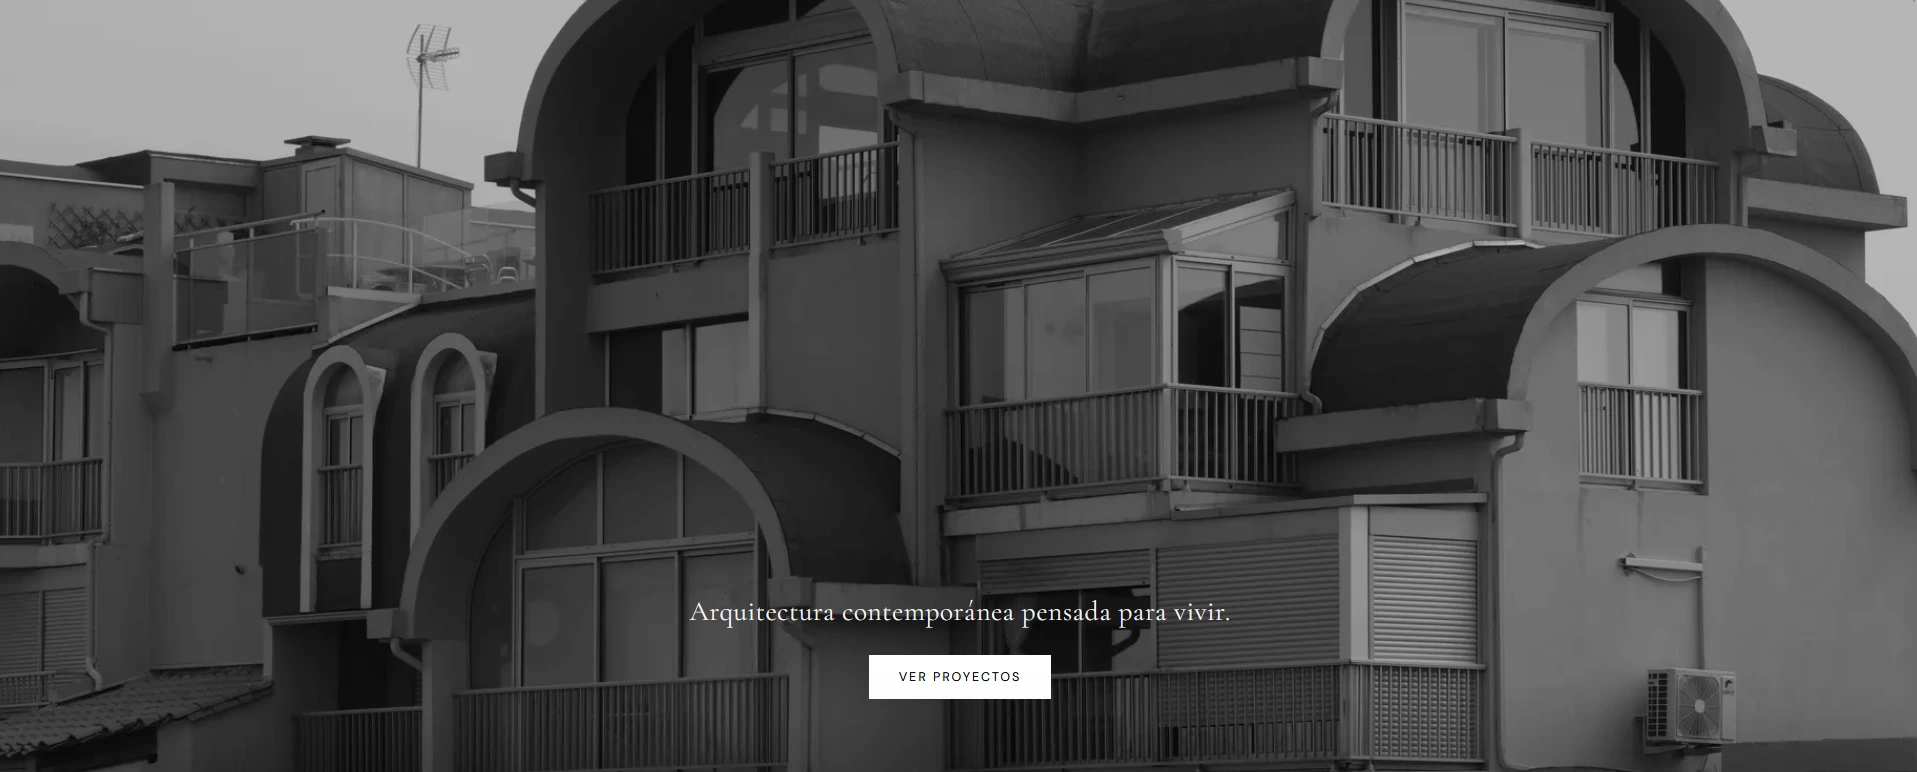
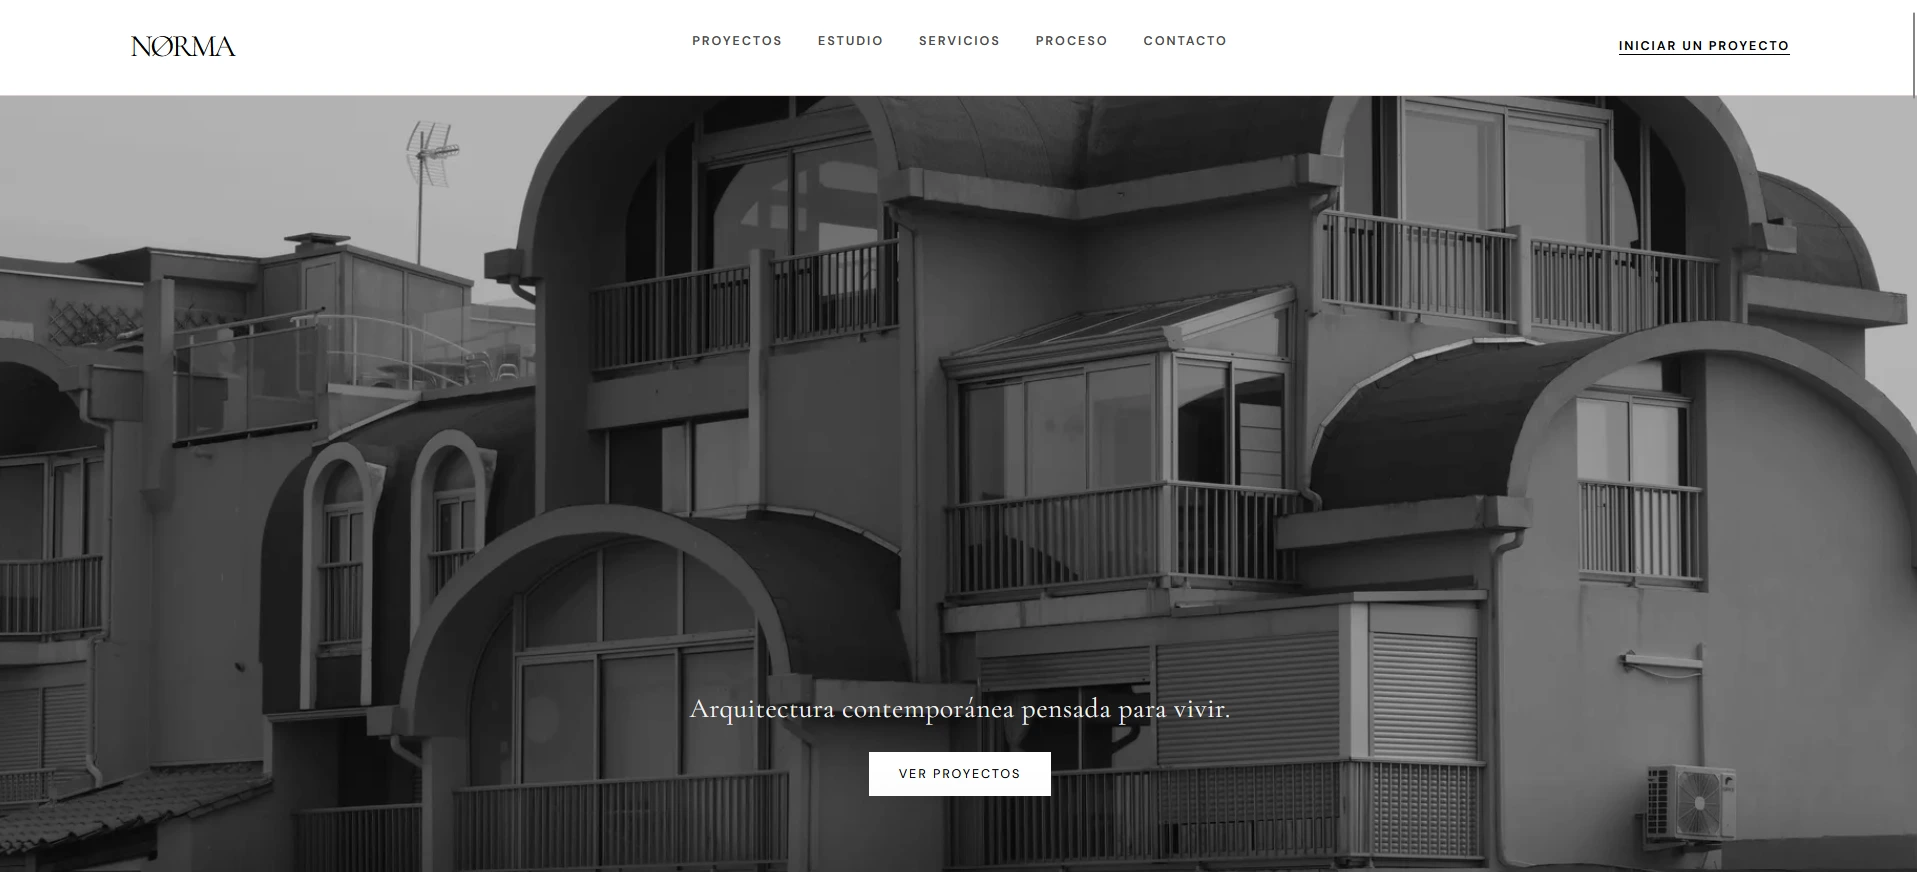
.

diff --git a/components/sections/portfolio.tsx b/components/sections/portfolio.tsx
@@ -57,7 +57,7 @@ function ProjectCard({ project, index = 0 }: { project: Project; index?: number 
       whileInView={{ opacity: 1, y: 0 }}
       transition={{ duration: 0.8, ease: [0.16, 1, 0.3, 1] }}
       viewport={{ once: true, margin: "-100px" }}
-      className="group flex flex-col gap-8 w-full"
+      className="group flex flex-col gap-8 w-full rounded-[2.5rem] bg-white/10 border border-white/20 p-6 sm:p-8 lg:p-10 transition-colors hover:bg-white/15 hover:border-white/30"
     >
       {/* IMAGE CONTAINER */}
       <a
@@ -66,7 +66,7 @@ function ProjectCard({ project, index = 0 }: { project: Project; index?: number 
         rel="noopener noreferrer"
         className="relative block w-full overflow-hidden rounded-3xl bg-white/[0.02] cursor-pointer"
       >
-        <div className="relative aspect-[16/10] sm:aspect-[16/8] w-full overflow-hidden">
+        <div className="relative aspect-video w-full overflow-hidden">
           <Image
             src={project.image}
             alt={`Proyecto de identidad digital para ${project.client} - ${project.industry}`}
@@ -80,7 +80,7 @@ function ProjectCard({ project, index = 0 }: { project: Project; index?: number 
       </a>
 
       {/* TEXT CONTAINER */}
-      <div className="flex flex-col md:flex-row md:items-start justify-between gap-8 md:gap-12 px-2">
+      <div className="flex flex-col md:flex-row md:items-start justify-between gap-8 md:gap-12">
         <div className="flex flex-col gap-2 md:w-[45%]">
           <span className="text-xs font-semibold tracking-[0.2em] text-brand-secondary uppercase">
             {project.industry}
